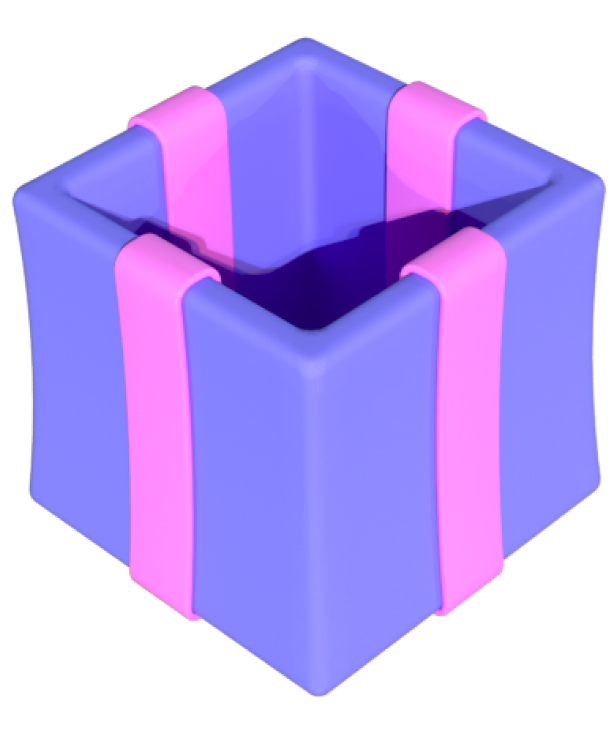
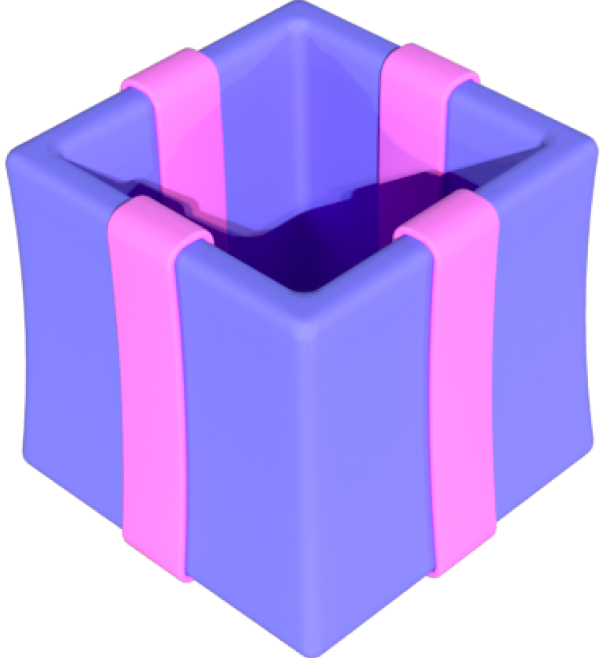
web/console: change animation design

Changed region(s): [[0.0, 0.0, 1.0, 1.0], [0.4478, 0.4255, 0.5672, 0.4559], [0.9552, 0.304, 0.9851, 0.3647]]

diff --git a/web/console/src/app/components/Store/LootboxContent/LootboxKeeping/index.tsx b/web/console/src/app/components/Store/LootboxContent/LootboxKeeping/index.tsx
@@ -47,7 +47,7 @@ export const LootboxKeeping: React.FC<{
                         </div>
                     </div>
                     <div>
-                        <div className="box-keeping__card-wrapper">
+                        <div className="box-keeping__card__wrapper">
                             {cards.slice(FIRST_PAGE_END, SECOND_PAGE_END).map((card: Card, index: number) =>
                                 <PlayerCard key={index} className="box-keeping__card" id={card.id} />
                             )}
@@ -55,7 +55,7 @@ export const LootboxKeeping: React.FC<{
                     </div>
                     {cards.length > REGULAR_CARDS_AMOUNT &&
                         <div>
-                            <div className="box-keeping__card-wrapper">
+                            <div className="box-keeping__card__wrapper">
                                 {cards.slice(SECOND_PAGE_END).map((card: Card, index: number) =>
                                     <PlayerCard key={index} className="box-keeping__card" id={card.id} />
                                 )}

diff --git a/web/console/src/app/components/Store/LootboxContent/LootboxKeeping/index.scss b/web/console/src/app/components/Store/LootboxContent/LootboxKeeping/index.scss
@@ -4,6 +4,8 @@
 
 .box-keeping {
     animation: darken 1s 0 1 normal forwards;
+    overflow: hidden;
+    height: calc(100vh - 100px);
 
     @keyframes darken {
 
@@ -15,8 +17,6 @@
             opacity: 1;
         }
     }
-
-    min-height: 90vh;
 
     &__wrapper {
         max-width: 1440px;
@@ -68,14 +68,14 @@
         color: #26373f;
 
         &__wrapper {
-            margin: 50px 0 40px;
+            margin: 30px 0 35px;
             display: flex;
             justify-content: center;
         }
     }
 
     &__box {
-        width: 540px;
+        width: 410px;
 
         &__wrapper {
             position: relative;
@@ -87,12 +87,8 @@
         }
     }
 
-    .slider {
-        margin-top: 80px;
-    }
-
     .slick-prev {
-        margin-left: 120px;
+        margin-left: 5%;
         width: 60px;
         height: 60px;
 
@@ -110,7 +106,7 @@
     }
 
     .slick-next {
-        margin-right: 120px;
+        margin-right: 5%;
         width: 60px;
         height: 60px;
 

diff --git a/web/console/src/app/components/Store/LootboxContent/LootboxOpening/index.scss b/web/console/src/app/components/Store/LootboxContent/LootboxOpening/index.scss
@@ -4,25 +4,33 @@
     position: relative;
     display: flex;
     justify-content: center;
+    height: calc(100vh - 100px);
+    overflow-y: hidden;
 
     &__box-container {
         width: auto;
         margin: 0 auto;
+        position: relative;
+        z-index: 1;
 
         &--opened {
             position: relative;
-            width: 540px;
-            height: 1210px;
+            width: 410px;
         }
     }
 
     &__box {
-        width: 870px;
+        position: absolute;
+        bottom: -65px;
+        left: 50%;
+        transform: translateX(-50%);
+        height: auto;
+        width: 700px;
 
         &--opened {
             position: absolute;
-            bottom: 0;
-            width: 540px;
+            bottom: -55px;
+            width: 410px;
         }
     }
 
@@ -31,6 +39,7 @@
         margin: 0 auto;
 
         &__container {
+            z-index: 13;
             max-width: 300px;
             position: absolute;
             left: 0;

diff --git a/web/console/src/app/views/StorePage/index.scss b/web/console/src/app/views/StorePage/index.scss
@@ -1,13 +1,15 @@
 @import "@/index.scss";
 
 .store {
-    min-height: 90vh;
+    display: flex;
+    flex-direction: column;
+    justify-content: space-around;
+    height: calc(100vh - 100px);
     min-width: 100%;
-    overflow: hidden;
-    background: $mainBackground;
     background-image: url("@static/img/StorePage/background.png");
     background-position: center;
     background-repeat: no-repeat;
+    background-size: cover;
     padding: 0;
     color: white;
 

diff --git a/web/console/src/app/components/Store/LootboxSelection/index.scss b/web/console/src/app/components/Store/LootboxSelection/index.scss
@@ -9,7 +9,6 @@
         display: grid;
         justify-content: center;
         grid-template-columns: repeat(2, 1fr);
-        margin-bottom: 193px;
         gap: 20px;
     }
 }
@@ -22,7 +21,6 @@
             flex-direction: column;
             align-items: center;
             gap: 100px;
-            padding-bottom: 50px;
         }
     }
 }

diff --git a/web/console/src/app/views/StorePage/index.tsx b/web/console/src/app/views/StorePage/index.tsx
@@ -13,7 +13,7 @@ const Store = () => {
         <section className="store">
             {!isOpening ?
                 <>
-                    <h1 className="store__title">Box</h1>
+                    <h1>Box</h1>
                     <LootboxSelection handleOpening={handleOpening} />
                 </>
                 :

diff --git a/web/console/src/app/components/Store/LootboxContent/index.scss b/web/console/src/app/components/Store/LootboxContent/index.scss
@@ -2,7 +2,5 @@
 
 .box-content {
     width: 100%;
-    min-height: 90vh;
-    overflow: hidden;
     background: #9fc2fb;
 }
